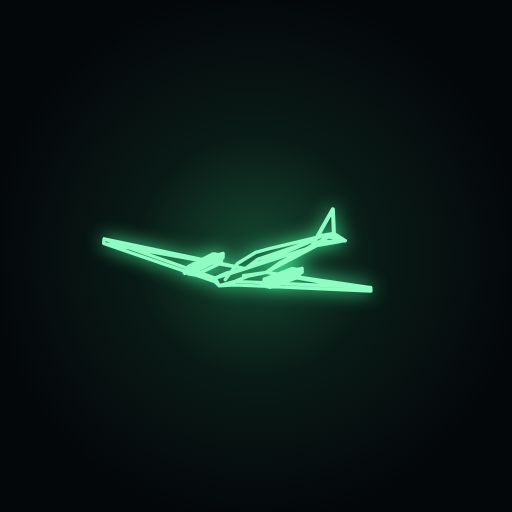
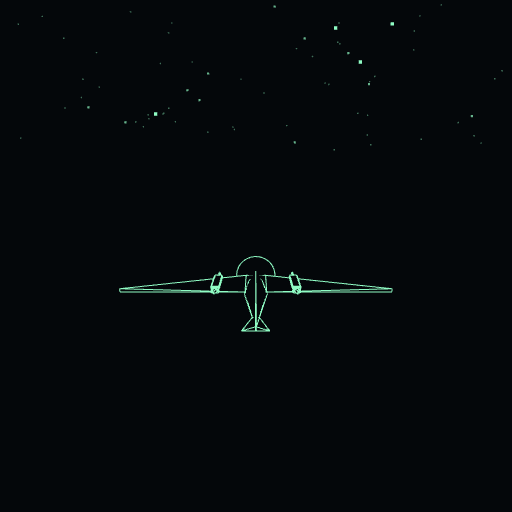
v1.00 : le tonneau a ses valeurs, la camera ne rentre plus dans l'avion, l'icone vient du jeu
- CAM_TONNEAU_VERT 0.02, CAM_ROULIS_TONNEAU 5 degres, CAM_SERPENT 4.0.
- Butee de recul a 16 m : mesuree, la camera tombait a 1,2 m de l'appareil au
  dixieme de la barrique, parce qu'elle recevait le pas de l'helice ET le
  rappel du ressort qui court apres le meme mouvement.
- Le refuge passe a z = 0 : cap 270,0 degres, pile sous l'etoile du Berger.
- Les icones sont des rendus du jeu — l'avion et les etoiles, plus de cadre.
  Script garde dans outils/rend-icones.mjs.

Claude-Session: https://claude.ai/code/session_01BQkyf1skJynC4Kt5Tr4Ucy

Changed region(s): [[0.1562, 0.2812, 0.7812, 0.7188]]

diff --git a/index.html b/index.html
@@ -1317,12 +1317,17 @@ const TONNEAU_CABRE = 45;     // degrés de nez levé au plus fort
 const TONNEAU_DECAL = 30;     // le décalage NET à la sortie : deux ailes et demie
 const SPIN_TIME     = 1.70;   // durée du tonneau au double tap
 const SPIN_DODGE    = 110;    // ancien écart latéral : gardé pour l'esquive des roquettes
-const CAM_ROULIS_TONNEAU = 0.42;  // radians d'inclinaison de l'image au plus fort du tonneau, qui revient à plat à la fin
+// CINQ DEGRÉS, PAS VINGT-QUATRE. Réglé au curseur sur la planche : l'image ne
+// bascule presque plus. C'est l'AVION qui tourne — l'horizon reste l'horizon,
+// et c'est bien ce qui rend la barrique lisible. Vingt-quatre degrés faisaient
+// tanguer le repère avec l'appareil, donc on ne savait plus lequel des deux
+// tournait.
+const CAM_ROULIS_TONNEAU = 5 * Math.PI / 180;
 // LE RATTRAPAGE DU DÉCOLLAGE : de combien de mètres par seconde l'écart se
 // referme, et l'écart maximal qu'on laisse s'ouvrir.
 const CAM_FERME     = 24;     // mètres par seconde
 const CAM_ECART_MAX = 130;    // mètres : au-delà, on ne le lâche plus
-const CAM_SERPENT = 3.5;          // mètres : elle serpente vers le côté du tonneau, et revient
+const CAM_SERPENT = 4.0;          // mètres : elle serpente vers le côté du tonneau, et revient
 const CAM_LATERAL_MAX = 4.5;      // et le décalage total ne dépasse jamais ceci, sinon l'avion quitte le cadre
 const CAM_TONNEAU   = 0.25;   // part du deport que la camera laisse filer avant de se recaler
 // LA PART DU PAS VERTICAL QUE LA CAMERA LAISSE FILER. A zero elle est rivee a
@@ -1330,7 +1335,16 @@ const CAM_TONNEAU   = 0.25;   // part du deport que la camera laisse filer avant
 // l'avion sort du cadre par le haut. Un dixieme donne sept metres d'ecart au
 // sommet de la cloche : l'appareil monte visiblement dans l'image, s'y arrete,
 // et redescend se ranger au centre a la sortie.
-const CAM_TONNEAU_VERT = 0.10;
+// DEUX POUR CENT. Réglé au curseur : la caméra suit la cloche presque
+// exactement, et il ne reste qu'un mètre et demi d'écart au sommet — trente-
+// sept pixels, un vingt-cinquième de la hauteur. L'appareil respire dans le
+// cadre sans jamais s'en approcher. Ce qui fait la figure, ce n'est pas le
+// déplacement à l'écran : c'est le décor qui défile en hélice derrière lui.
+const CAM_TONNEAU_VERT = 0.02;
+// Le recul en deçà duquel la caméra ne descend jamais. Au repos elle vit à
+// vingt-cinq mètres ; à seize, l'appareil remplit déjà largement le cadre et
+// le plan proche, à trois mètres, ne rogne encore rien.
+const CAM_RECUL_MINI = 16;
 const _camDecal = { dir: null, val: 0 };   // le decalage pose a l'image precedente, a retirer avant le ressort
 const DOUBLE_TAP    = 320;    // ms entre deux appuis pour les lier
 const FIG_TIME      = 1.05;   // durée d'un renversement, Immelmann ou Split-S
@@ -5178,7 +5192,14 @@ const SPECIAL = { largeur: 110, prof: 60, trou: 45, hautU: 200, entreeY: 40, hau
 // TERRAIN_R3, sur la plaine plate du dehors. Y aller prend deux minutes à la
 // croisière, on franchit la crête, et il n'y a plus rien que la plaine. C'est
 // le trajet lui-même qui est la récompense : personne n'y va par hasard.
-const REFUGE = { x: -10000, z: (PISTE.z0 + PISTE.z1) / 2, demiL: 14, demiZ: 180 };
+// ET PILE SOUS L'ÉTOILE DU BERGER. Le refuge héritait du z de la piste, soit
+// 320 mètres de décalage : à dix kilomètres cela fait 1,8° d'écart avec Vénus,
+// qui se lève plein ouest à 270°. Imperceptible, mais faux. À z = 0 le cap du
+// refuge vaut exactement 270° : viser l'étoile, c'est viser le terrain, et la
+// phrase de l'aide devient littéralement vraie. C'est aussi ce qui distingue
+// les trois secrets du ciel — le chariot montre le refuge sur la boussole,
+// Vénus le montre DANS LE CIEL, et Orion ne montre rien : elle donne.
+const REFUGE = { x: -10000, z: 0, demiL: 14, demiZ: 180 };
 const REFUGE_TEMPS = 180;        // secondes de vol avant qu'il existe
 const REFUGE_VUE = 1700;         // distance à laquelle il se laisse voir
 const REFUGE_TOUR = 0.22;        // radians par seconde : la caméra tourne autour
@@ -8921,6 +8942,26 @@ function simulate(dt) {
     _camDecal.dir.copy(_right);
     camera.position.addScaledVector(_camDecal.dir, _camDecal.val);
   }
+  // LE RECUL MINIMAL. Mesuré image par image pendant la barrique : au dixième
+  // de la figure la caméra tombait à UN MÈTRE VINGT de l'appareil — elle lui
+  // rentrait dedans — puis remontait à dix-neuf mètres au lieu des vingt-cinq
+  // du départ. Elle recevait le pas de l'hélice posé à la main ET le rappel du
+  // ressort qui court après le même mouvement : les deux s'ajoutent, et sur la
+  // rampe la plus raide de la cloche — juste après l'entrée, là où la dérivée
+  // de (1 − cos) est maximale — le cumul refermait tout l'écart d'un coup.
+  //
+  // On ne démêle pas les deux : on pose une butée. Sous ce recul, la caméra
+  // est repoussée le long de l'axe qui la relie à l'appareil, ce qui ne change
+  // ni sa direction ni son cadrage — seulement sa distance. Invisible quand
+  // rien ne cloche, et ça ne peut jamais rendre l'image pire.
+  {
+    _v.subVectors(camera.position, state.pos);
+    const dc = _v.length();
+    if (dc < CAM_RECUL_MINI) {
+      if (dc > 0.01) camera.position.copy(state.pos).addScaledVector(_v.divideScalar(dc), CAM_RECUL_MINI);
+      else camera.position.copy(state.pos).addScaledVector(state.forward, -CAM_RECUL_MINI);
+    }
+  }
   updateBoost(dt);
   updateChauffe(dt);
   updateTraits(dt);
@@ -11307,6 +11348,9 @@ plusJamaisCase.addEventListener('change', () => {
 // ici — le detail vit dans le code et dans BACKLOG.md.
 // ---------------------------------------------------------------------------
 const JOURNAL = [
+  { v: '1.00', fr: 'Le tonneau prend les réglages du pilote : deux pour cent de hauteur laissée filer, cinq degrés de roulis d’image.', en: 'The barrel roll takes the pilot’s settings: two per cent of height let slip, five degrees of image roll.' },
+  { v: '1.00', fr: 'L’icône est une image du jeu : l’avion et les étoiles, plus de cadre autour.', en: 'The icon is a picture of the game: the plane and the stars, no frame around it.' },
+  { v: '1.00', fr: 'Le refuge est exactement sous l’étoile du Berger, au cap deux cent soixante-dix.', en: 'The refuge sits exactly beneath the evening star, on bearing two hundred and seventy.' },
   { v: '1.00', fr: 'Les montagnes ont un corps : la nappe qui les remplit n’était pas invisible par accident, elle était de la couleur du ciel.', en: 'The mountains have a body: the sheet filling them was not invisible by accident, it was the colour of the sky.' },
   { v: '1.00', fr: 'Le journal ne répète plus le numéro de version à chaque ligne : un numéro, et tout ce qui a changé dessous.', en: 'The log no longer repeats the version number on every line: one number, and everything that changed beneath it.' },
   { v: '1.00', fr: 'La plaine au-delà des montagnes ne compte plus comme une fuite : on va au refuge tranquillement.', en: 'The plain beyond the mountains no longer counts as fleeing: the trip to the refuge is calm.' },

diff --git a/BACKLOG.md b/BACKLOG.md
@@ -1305,3 +1305,69 @@ Ce qui reste à trancher :
 La planche affiche en direct l'écart maximal en pixels et le nombre d'images
 hors cadre sur 92, donc chaque réglage se juge sur un chiffre, pas sur une
 impression.
+
+## v1.00 — le tonneau réglé, l'icône refaite, le refuge sous Vénus
+
+### Ses trois valeurs
+
+    CAM_TONNEAU_VERT   = 0.02
+    CAM_ROULIS_TONNEAU = 5°
+    CAM_SERPENT        = 4.0
+
+La caméra suit donc la cloche à 98 % : il ne reste qu'un mètre et demi d'écart
+au sommet, trente-sept pixels, un vingt-cinquième de la hauteur. Et l'image ne
+bascule presque plus — c'est l'appareil qui tourne, l'horizon reste l'horizon.
+
+### « Tu fais tourner l'avion autour de l'axe vertical »
+
+Vrai pour la planche, faux pour le jeu, et la mesure tranche.
+
+**Dans le jeu** : cap du nez mesuré image par image pendant toute la barrique —
+**0,0° du début à la fin**. Aucun lacet. L'aile monte et descend (|Y| jusqu'à
+0,76), le dessus du fuselage passe à −0,71 : l'appareil se met bel et bien sur
+le dos. C'est un roulis autour de l'axe longitudinal, et rien d'autre.
+
+**Dans la planche** : le bout d'aile décrivait une ellipse écrasée à 0,42 en
+vertical — c'est-à-dire exactement ce que fait un disque tournant autour de la
+verticale, vu de biais. D'où sa lecture, qui était juste. Vu de derrière, le
+bout d'aile décrit un **cercle**. Corrigé, et la dérive aussi, qui était
+dessinée à l'envers. La planche trace maintenant le chemin du bout d'aile :
+l'hélice se voit, l'axe ne fait plus de doute.
+
+### La caméra rentrait dans l'avion
+
+Mesure du recul caméra–avion image par image pendant la figure : au **dixième**
+de la barrique, la caméra tombait à **1,2 mètre** de l'appareil. Elle recevait
+le pas de l'hélice posé à la main *et* le rappel du ressort qui court après le
+même mouvement ; sur la rampe la plus raide de la cloche, le cumul refermait
+tout l'écart d'un coup.
+
+Butée à 16 m — 83 % du recul en vol établi, **mesuré à 19,2 m**. La caméra est
+repoussée le long de son axe vers l'appareil : ni la direction ni le cadrage ne
+changent, seulement la distance. **Après** : minimum 16,0 m au lieu de 1,2.
+
+### L'icône
+
+Plus de cadre arrondi dessiné à la main. L'icône est maintenant **une image du
+jeu**, prise par la caméra du jeu : l'avion et les étoiles, fond noir, ni sol
+ni bâtiments. Le rendu se fait par calques — le jeu remet `visible = true` sur
+la grille et les traits de vitesse à chaque image, donc éteindre ne suffit pas,
+alors que les calques, il n'y touche jamais. La caméra ne regarde plus que le
+calque 1, où l'on n'a mis que la maquette et la voûte.
+
+Le script est gardé dans `outils/rend-icones.mjs` : les icônes se refont à
+l'identique quand la maquette changera.
+
+### Le refuge est-il à la verticale d'Orion ?
+
+Non — **mesuré** : Orion est entre 166° et 197°, plein sud. Le refuge est au
+cap 270°, plein ouest. Il est à la verticale de **Vénus**, l'étoile du Berger,
+qui se lève exactement à 270°.
+
+Il héritait du z de la piste, soit 320 m de décalage — 1,8° d'écart à dix
+kilomètres, imperceptible mais faux. `REFUGE.z = 0` : le cap vaut maintenant
+**270,0°** exactement. Viser l'étoile, c'est viser le terrain.
+
+C'est aussi ce qui sépare les trois secrets du ciel : le chariot montre le
+refuge **sur la boussole**, Vénus le montre **dans le ciel**, et Orion ne
+montre rien — elle donne.
